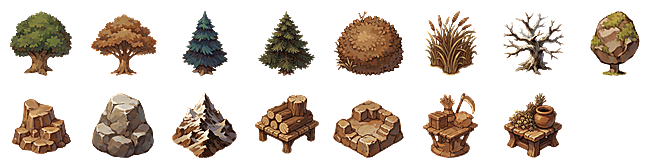
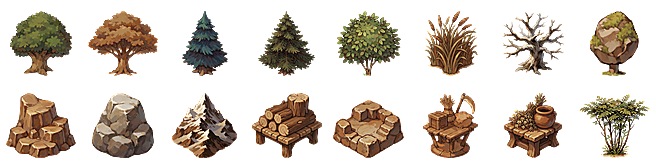
Карта: подлесок и лиственный куст в пулах леса; маттинг — порог + связность с краем
Лист объектов — 16: obj_bush перегенерирован (читался сеном, стал лиственным
кустарником; id тот же), добавлен obj_undergrowth — молодой подлесок из тонких
стволиков с плоской кроной. Он стоит в DECOR_FOREST и DECOR_DENSE наравне с
деревьями: один объект на клетку, а не второй ярус, и не надо решать, кто кого
перекрывает в пределах клетки.

Дефект класса, а не кадра: модель кладёт вокруг сюжета серую «бумажную» виньетку,
чистый порог маттинга не вычитал её, а делал полупрозрачным полем — на карте
объект ехал светлым квадратом (замер полосы полупрозрачного: 0.38 против
0.01–0.04 у остальных объектов). Маттинг переведён на «порог + связность с краем
кадра»: фоном считается только светлое, доходящее до рамки, светлое внутри сюжета
(хвоя, снег) не протыкается — по 16 объектам глубоких дыр 0, снято только поле
(куст: −726 px плёнки). Гейт objects/film (порог 0.08) ловит класс по листу,
мутация «вернуть плёнку» — в --self-test (15/15).

tools/map_shot.gd: --center=x,y — снимать вокруг конкретной клетки (окрестность
деревни — луг и дороги, глазное ревью леса требовало своего биома).

Верификация (local): GdUnit 2697 | 0 | 0 | 2 skipped, exit 0; MCP e2e 40/1/0;
check_map_art GATE=0 (20/20) на живом кадре; self-test 15/15; gdlint 16 = база;
check_docs_links OK; openspec validate OK.

diff --git a/scripts/check_map_art.py b/scripts/check_map_art.py
@@ -463,7 +463,7 @@ def object_checks(manifest_path: str, cfg: dict) -> list[tuple[str, bool, str]]:
     tile = int(manifest["tile"])
     ocfg = cfg["objects"]
     out: list[tuple[str, bool, str]] = []
-    thin, fat, anchor = [], [], []
+    thin, fat, anchor, film = [], [], [], []
     for c in manifest["cells"]:
         x, y = int(c["atlas"][0]) * tile, int(c["atlas"][1]) * tile
         alpha = np.asarray(img.crop((x, y, x + tile, y + tile)))[:, :, 3]
@@ -473,12 +473,20 @@ def object_checks(manifest_path: str, cfg: dict) -> list[tuple[str, bool, str]]:
         # якорь по нижней кромке: сама нижняя строка тайла — пустой прозрачной полосы
         if float((alpha[-max(1, tile // 20):, :] > 16).mean()) > 1.0 - float(ocfg["anchor_transparent"]):
             anchor.append(c["id"])
+        # «плёнка»: модель рисует серую виньетку вокруг сюжета, порог маттинга делает
+        # из неё полупрозрачное поле, и на карте объект едет светлым квадратом. Кадр с
+        # чистым фоном даёт полосу 0.01–0.04 (край силуэта), кадр с виньеткой — 0.38.
+        if float(((alpha > 12) & (alpha < 178)).mean()) > float(ocfg["max_film_band"]):
+            film.append(c["id"])
     out.append(("objects/coverage", not thin and not fat,
                 f"пустых {len(thin)}, залитых {len(fat)} из {len(manifest['cells'])}; "
                 f"полоса {float(ocfg['min_silhouette_coverage']):.2f}–"
                 f"{float(ocfg['max_silhouette_coverage']):.2f}"))
     out.append(("objects/anchor", not anchor,
                 f"без прозрачной нижней кромки: {len(anchor)}" + (f" — {anchor[:4]}" if anchor else "")))
+    out.append(("objects/film", not film,
+                f"плёнка фона (полупрозрачное поле вокруг сюжета) > "
+                f"{float(ocfg['max_film_band']):.2f}: {len(film)}" + (f" — {film[:4]}" if film else "")))
     return out
 
 
@@ -675,6 +683,8 @@ def self_test(cfg: dict) -> int:
              lambda: _mutate(atlas, src_box=[0, 0, 120, 120])),
             ("objects/coverage", "залить фон объекта",
              lambda: _mutate(objects, fill=True)),
+            ("objects/film", "вернуть плёнку фона вокруг сюжета",
+             lambda: _mutate(objects, film=True)),
             ("atlas/palette", "подменить носитель полосы",
              lambda: _mutate(atlas, repaint=(255, 0, 128))),
             ("atlas/hex-shape", "пробить базу насквозь",
@@ -709,7 +719,7 @@ def self_test(cfg: dict) -> int:
         shutil.rmtree(work, ignore_errors=True)
 
 
-def _mutate(root: str, *, shift_edges=False, src_box=None, fill=False,
+def _mutate(root: str, *, shift_edges=False, src_box=None, fill=False, film=False,
             repaint=None, punch=False, drop_edge=False, premultiply=False,
             variant_tone=False, collapse_variants=False, square=False,
             variant_art=False) -> None:
@@ -726,7 +736,7 @@ def _mutate(root: str, *, shift_edges=False, src_box=None, fill=False,
     if drop_edge:
         data["cells"] = [c for c in data["cells"] if not (
             c.get("kind") == "edge" and c.get("side") == "e")]
-    if (repaint is not None or punch or fill or shift_edges or premultiply or variant_tone
+    if (repaint is not None or punch or fill or film or shift_edges or premultiply or variant_tone
             or collapse_variants or square or variant_art):
         arr = np.asarray(img.convert("RGBA")).copy()
         for c in data["cells"]:
@@ -741,6 +751,11 @@ def _mutate(root: str, *, shift_edges=False, src_box=None, fill=False,
                 arr[y:y + tile, x:x + tile, 3] = 255
             if fill:
                 arr[y:y + tile, x:x + tile] = (10, 20, 30, 255)
+            if film:
+                # регресс кадра obj_undergrowth: модель легла серой виньеткой, порог
+                # маттинга оставил от неё полупрозрачное поле — на карте это светлый
+                # квадрат вокруг объекта
+                arr[y:y + tile, x:x + tile, 3] = np.maximum(arr[y:y + tile, x:x + tile, 3], 90)
             if premultiply and c.get("kind") == "edge":
                 # тот же дефект, что ушёл в атлас: полупрозрачный край с RGB, уже
                 # умноженным на альфу, — глазами это тёмная кайма перехода

diff --git a/scripts/gen_map_art.py b/scripts/gen_map_art.py
@@ -24,6 +24,7 @@ from pathlib import Path
 
 import numpy as np
 from PIL import Image, ImageDraw, ImageFilter
+from scipy.ndimage import label as label_components
 
 ROOT = Path(__file__).resolve().parents[1]
 sys.path.insert(0, str(ROOT / "scripts" / "concept_art"))
@@ -311,12 +312,25 @@ def edge_decal(base: Image.Image, side: str) -> Image.Image:
 def cut_object(frame: Path, fit: float = 0.86, bottom: int = 6) -> Image.Image:
     """Белый фон → прозрачность порогом по яркости, затем силуэт вписан в тайл.
 
-    Порог, а не flood fill: фон у кадров однозначный, а дырка в светлой хвое дороже
-    кривизны края силуэта. Вписывание с нижней кромкой нужно гейтам листа: силуэт не
-    должен занимать больше 0.6 клетки и обязан оставлять прозрачную нижнюю полосу
-    (на неё опирается якорь объекта на клетке)."""
+    Порог плюс связность с краем кадра: фон у кадров светлый, но не всегда чистый
+    (серая виньетка), а дырка в светлой хвое дороже кривизны края силуэта, поэтому
+    фоном считается только светлое, доходящее до рамки. Вписывание с нижней кромкой
+    нужно гейтам листа: силуэт не должен занимать больше 0.6 клетки и обязан оставлять
+    прозрачную нижнюю полосу (на неё опирается якорь объекта на клетке)."""
     a = np.asarray(Image.open(frame).convert("RGB")).astype(np.float32)
     alpha = np.clip((250.0 - a.min(2)) / 30.0, 0.0, 1.0)
+    # «Плёнка»: модель кладёт вокруг сюжета серую виньетку, и порог выше делает из неё
+    # полупрозрачное поле (на карте — светлый квадрат вокруг объекта). Вычитается только
+    # то, что тянется от края кадра: светлые пиксели внутри сюжета (хвоя, снег, белизна
+    # берёсты) до края не доходят и остаются на месте — за это порог вместо flood fill
+    # и держали, связность возвращает ровно то, что он резал по цвету.
+    near = a.min(2) >= 200.0
+    components, _ = label_components(near)
+    touching = (set(components[0, :]) | set(components[-1, :])
+                | set(components[:, 0]) | set(components[:, -1]))
+    touching.discard(0)
+    if touching:
+        alpha[np.isin(components, list(touching))] = 0.0
     im = Image.fromarray(np.dstack([a, alpha * 255.0]).astype(np.uint8), "RGBA")
     im = im.crop(im.split()[3].getbbox())
     s = min(fit * TILE / im.width, (fit * TILE - bottom) / im.height)

diff --git a/game/assets/PROVENANCE.md b/game/assets/PROVENANCE.md
@@ -36,7 +36,7 @@ date: 2026-10-18
 | `game/assets/textures/` | не установлено — `44c5513b` (2026-09-03, astral-macro) | 3 png шардов/неба | записей нет | неизвестно |
 | `game/assets/textures/objects/` | не установлено — `62dc74d2` (2026-10-07, «obj36») | 12 png объектов карты | записей нет | неизвестно |
 | `game/assets/objects/` | конвейер репо `scripts/gen_map_art.py` (world-map-art-variety) | лист изолированных объектов карты `world_map_objects.webp` | comfyui/image-clone: роли из `scripts/concept_art/map_spec.json`, кадр 1024² → силуэт; права на модель Krea-2 turbo не проверялись | жёлтый |
-| `game/assets/objects/world_map_objects.webp` | то же | 15 объектов 82 px, comfyui/image-clone, seed'ы в `image-clone/map/MANIFEST.json` | права на модель не проверялись | жёлтый |
+| `game/assets/objects/world_map_objects.webp` | то же | 16 объектов 82 px, comfyui/image-clone, seed'ы в `image-clone/map/MANIFEST.json` (2026-10-19: `obj_bush` перегенерирован, добавлен `obj_undergrowth`) | права на модель не проверялись | жёлтый |
 | `game/assets/tiles/` | не установлено — `44c5513b` (2026-09-03) | 1 png тайла | записей нет | неизвестно |
 | `game/assets/tiles/world_map_atlas.webp` | конвейер репо `scripts/gen_map_art.py` (world-map-art-variety) | comfyui/image-clone: 8 биомов × 4 варианта базы + 6 декалей границ на биом, 82 px; материал 1024² → зашивка шва → полоса M | права на модель Krea-2 turbo не проверялись | жёлтый |
 | `game/assets/ui/` | AI-генерация референса 04; `17e75cf4` как конверсия jpeg из «image-очереди» | `main_menu_bg.webp` 1920×1080 | права на генерацию не проверялись | жёлтый — перегенерация с чистой палитрой (UI-4) |

diff --git a/docs/CHANGELOG.md b/docs/CHANGELOG.md
@@ -9,6 +9,20 @@ date: 2026-10-19
 
 # CHANGELOG — docs/
 
+## [2026-10-19] — карта: партия «подлесок + куст» (7.1) и гейт плёнки фона
+
+- **Лист объектов — 16:** `obj_bush` перегенерирован (читался сеном — стал лиственным
+  кустарником, id тот же), добавлен `obj_undergrowth` (молодой подлесок). Он в пулах леса и
+  плотного леса наравне с деревьями (`map_spawner.DECOR_*`): один объект на клетку, а не
+  второй ярус. Тесты: пулы ссылаются на id листа, подлесок ставится и не вытесняет деревья.
+- **Маттинг: порог → «порог + связность с краем кадра».** Модель кладёт вокруг сюжета серую
+  виньетку, чистый порог превращал её в полупрозрачное поле — на карте объект ехал светлым
+  квадратом (замер полосы 0.38 против 0.01–0.04). Светлое внутри сюжета (хвоя, снег) до края
+  не доходит и не протыкается: по 16 объектам глубоких дыр 0. Гейт `objects/film` (порог 0.08)
+  + мутация «вернуть плёнку» в `--self-test` (15/15).
+- **`tools/map_shot.gd`:** флаг `--center=x,y` — снимать вокруг конкретной клетки (окрестность
+  деревни — луг и дороги, глазное ревью леса требовало своего биома).
+
 ## [2026-10-19] — карта: мерж T-143 (круг 19) + слой растительности T-7.2 (GdUnit 2694/0)
 
 - **Мерж `fix/t143-variant-seam` → `main`** (merge-commit `d893a243`, два родителя): клетки

diff --git a/openspec/changes/world-map-art-variety/tasks.md b/openspec/changes/world-map-art-variety/tasks.md
@@ -90,6 +90,12 @@
 ## 7. Растительность, рельеф и носитель добычи
 
 - [ ] 7.1 Партия объектов: лес/плотный лес/кусты (2–3 размера), склон/вершина/снег, ресурсные постройки по группам добычи; тень отдельным элементом; контактный лист и вердикт
+  (2026-10-19) Часть «лес/кусты» закрыта: `obj_bush` перегенерирован (был сеном — стал
+  лиственным кустарником), добавлен `obj_undergrowth` (молодой подлесок), он в пулах леса и
+  плотного леса наравне с деревьями; лист — 16 объектов, контактный лист и кадр
+  `docs/reference/map-baseline/review-11-3/undergrowth-t71-*.png`. Маттинг кадра переведён на
+  «порог + связность с краем», гейт `objects/film` ловит плёнку фона (мутация в `--self-test`).
+  Остаток: склон/вершина/снег, ресурсные постройки по группам добычи, тень отдельным элементом.
 - [x] 7.2 `game/scripts/world/map_spawner.gd`: `place_decor()` заменяется расстановкой растительности по биомам (лес, плотный лес, кромка, кустики) с детерминированным семенем; `map_renderer.paint_decor()` из заглушки становится слоем 5
   (2026-10-19) Пулы и плотность — константы `DECOR_*` в `map_spawner.gd` (плотный лес 0.85,
   лес 0.6, кусты 0.25 на кромке / 0.06 в глубине), id берутся из манифеста листа объектов
